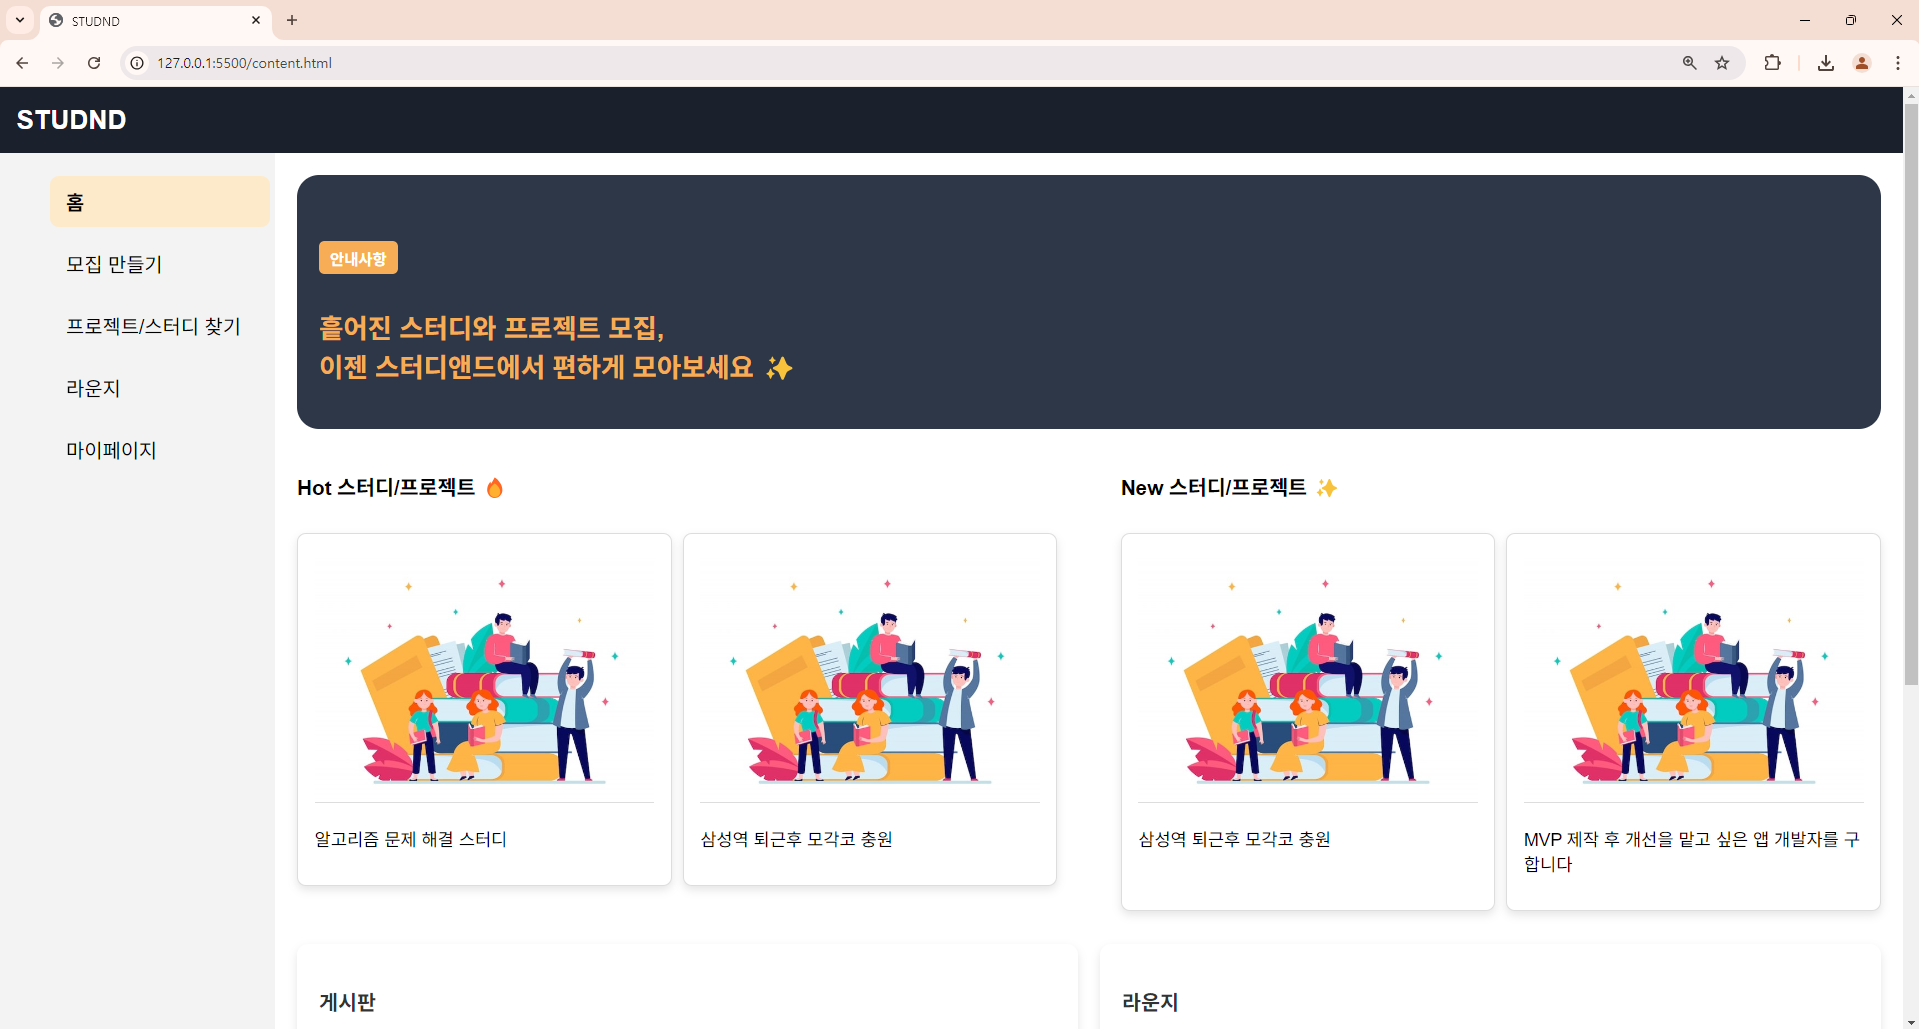
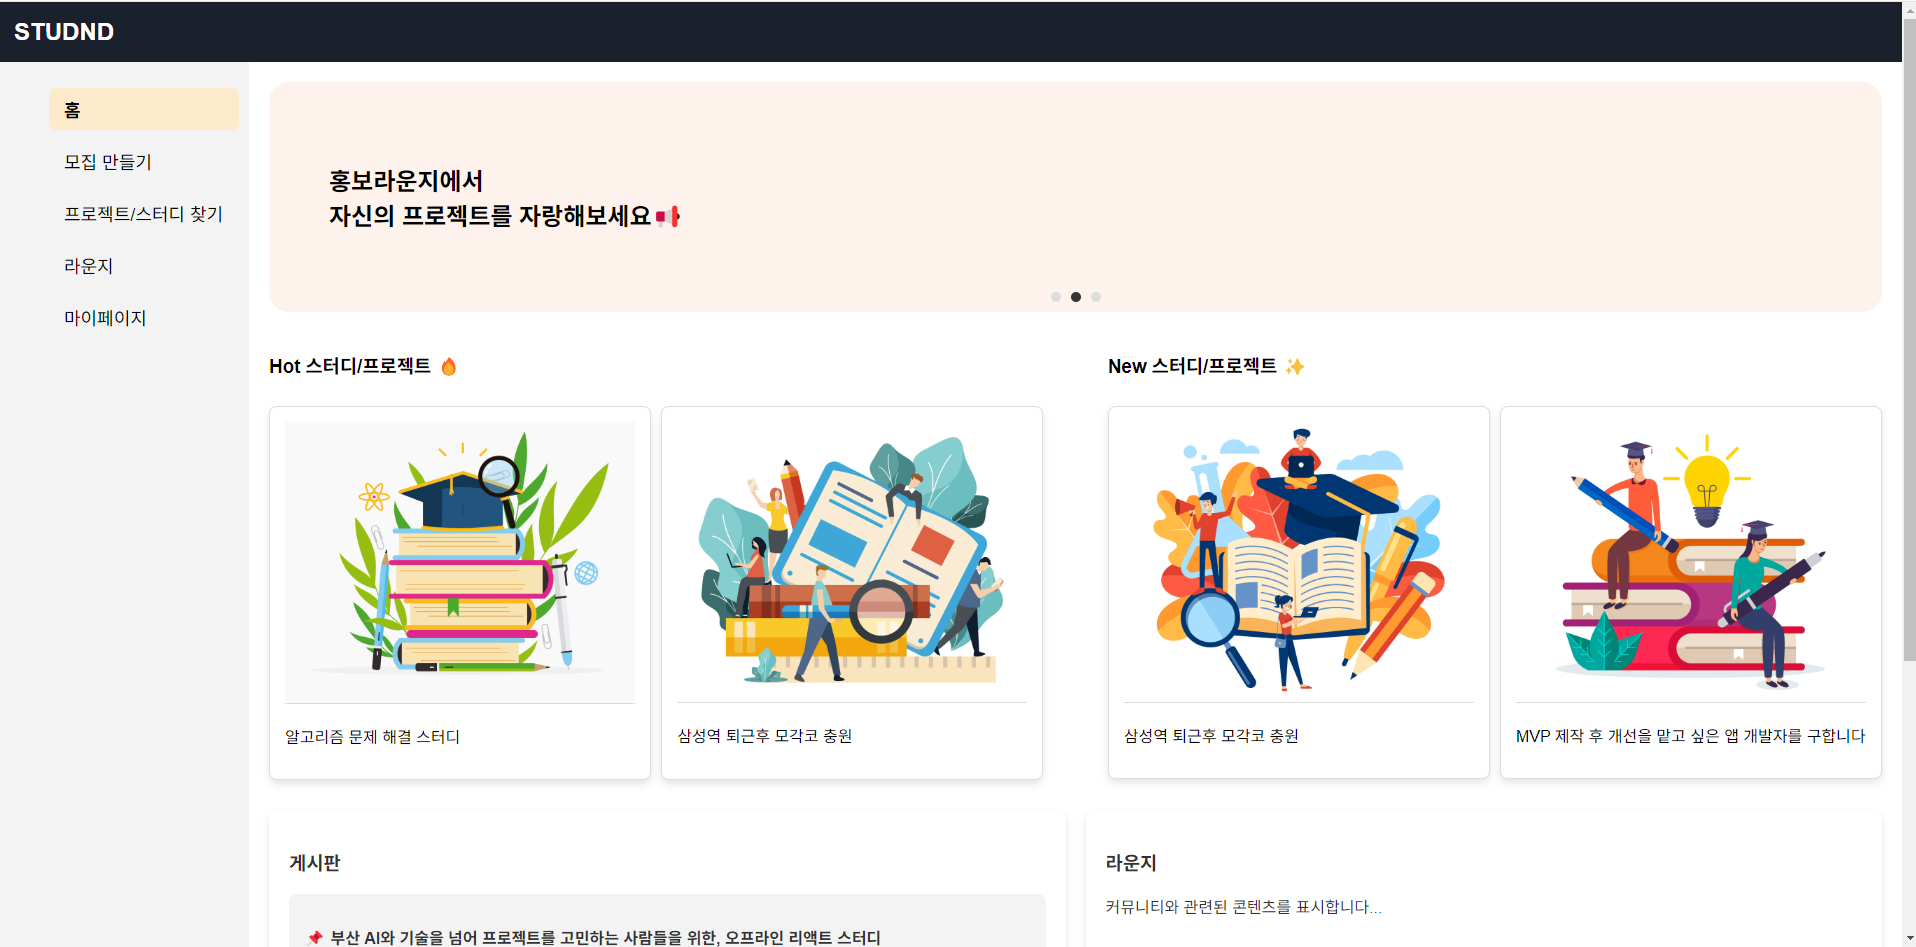
Third file

diff --git a/css/styles.css b/css/styles.css
@@ -33,12 +33,12 @@ header {
 .sidebar {
    grid-area: sidebar;
    background-color: #f3f3f3;
-   padding: 5px 5px;
+   padding: 10px;
 }
 
 .nav-item {
    list-style-type: none;
-   padding: 10px 15px;
+   padding: 8px 15px;
    font-size: 18px;
    cursor: pointer;
    margin-bottom: 10px;
@@ -85,8 +85,6 @@ header {
    border-radius: inherit; /* 부모의 border-radius와 동일하게 적용 */
  }
  
- 
-
 .carousel-indicators {
   position: absolute;
   bottom: 10px;

diff --git a/README.md b/README.md
@@ -1,5 +1,5 @@
 # CapStone_Design
 ![alt text](img.png)
 ![alt text](img2.png)
-현재까지 구상한 웹페이지 입니다.
-캐러셀 슬라이드는 아직 작동하지 않습니다.
+현재까지 구현한 웹페이지 입니다. 
+안내사항의 캐러셀 슬라이드 구현 완료했습니다.
